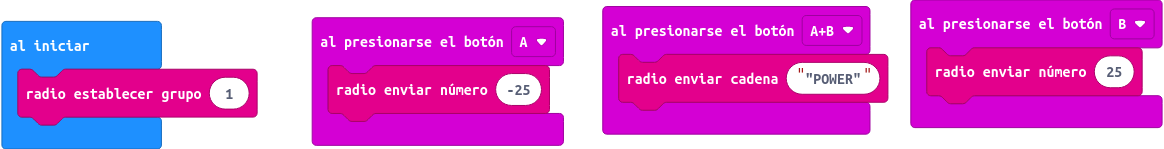
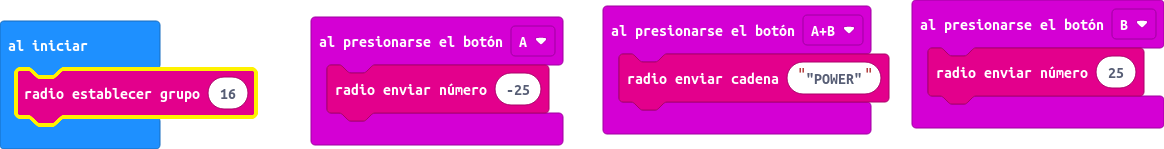
Actualizar main.blocks, main.ts

diff --git a/main.ts b/main.ts
@@ -7,4 +7,4 @@ input.onButtonPressed(Button.AB, function () {
 input.onButtonPressed(Button.B, function () {
     radio.sendNumber(25)
 })
-radio.setGroup(1)
+radio.setGroup(16)
